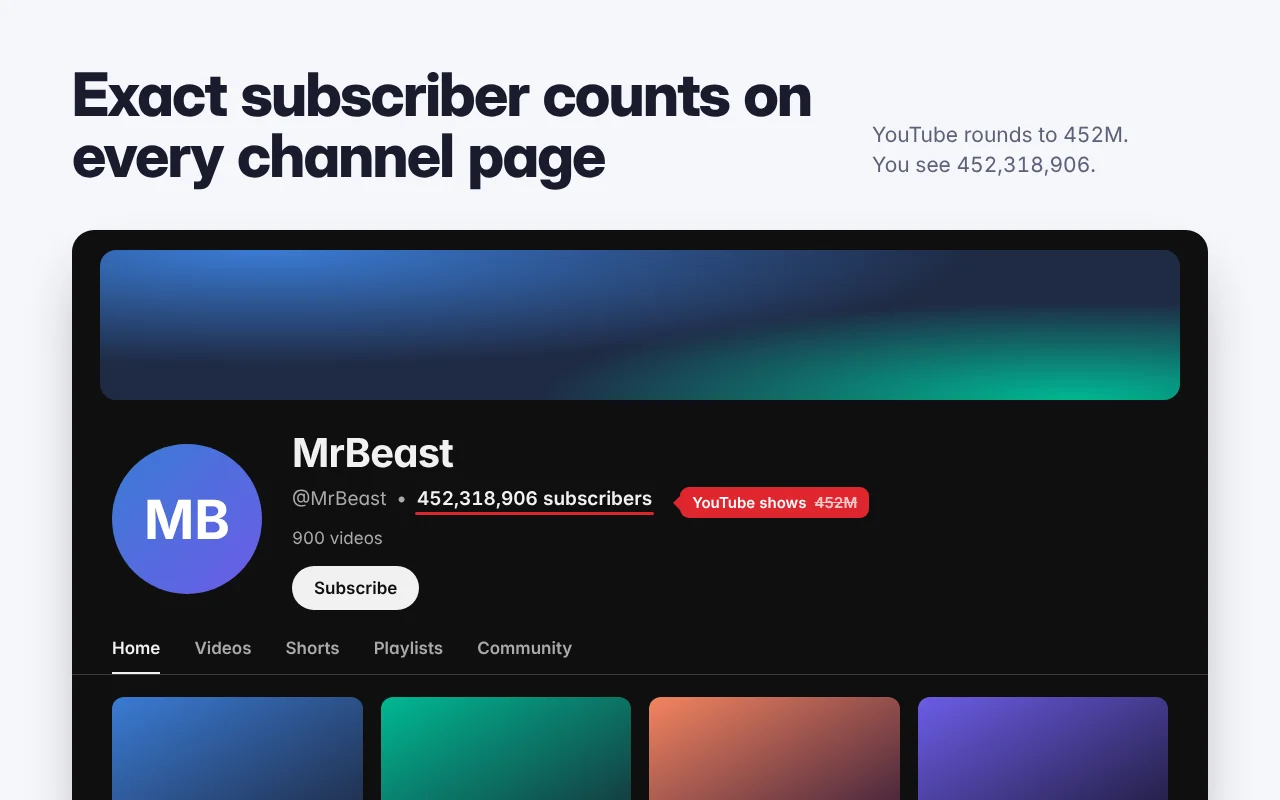
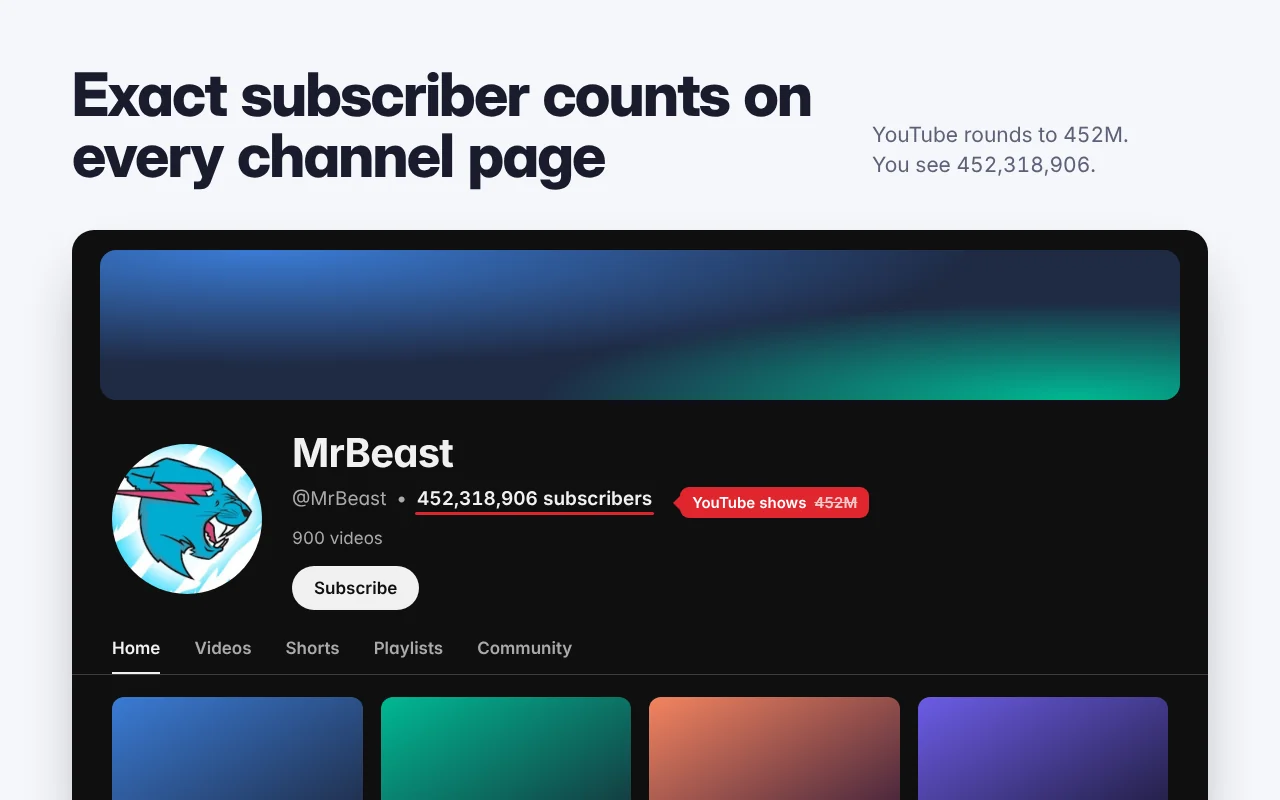
Store images with real channel pictures; seven screenshots
- Real profile pictures for MrBeast, PewDiePie, TheFatRat and Straight From
  MG, cropped from the project's earlier YouTube screenshots.
- Search screenshot shows MrBeast, PewDiePie and TheFatRat; new race-mode and
  your-channel (NextCounts real Studio count) screenshots; SFMG uses its Studio
  count consistently; privacy shot names both sources.
- render-assets clears old screenshots before rendering (keeps the Safari
  icon set's Contents.json).
- Website screenshot tabs and store listings point at the new set; Chrome
  and Opera use the first five.
- Feature-test fixtures use the same channels and pictures.

Changed region(s): [[0.0625, 0.5312, 0.2188, 0.75]]

diff --git a/store/templates/scenes.html b/store/templates/scenes.html
@@ -29,7 +29,7 @@
   .shot header { display: flex; justify-content: space-between; align-items: flex-end; gap: 40px; }
   .shot h1 { font-size: 60px; max-width: 760px; }
   .shot header p { color: var(--slate); font-size: 21px; line-height: 1.45; max-width: 360px; padding-bottom: 6px; text-wrap: balance; }
-  .shot > .yt { align-self: start; }
+  .shot > .yt, .shot > .race-card { align-self: start; }
   .shot > .ba, .shot > .center { align-self: center; }
 
   /* ---------- YouTube-like dark UI ---------- */
@@ -121,6 +121,28 @@
   .facts span { display: flex; align-items: center; gap: 12px; }
   .facts span::before { content: ""; width: 12px; height: 12px; border-radius: 50%; background: var(--red); }
 
+
+  /* race */
+  .race-card { background: #fff; border: 2px solid var(--mist); border-radius: 22px; padding: 56px 56px 44px; box-shadow: 0 30px 60px -28px rgba(26, 28, 46, .35); }
+  .race-sides { display: grid; grid-template-columns: 1fr 1fr; gap: 40px; min-width: 0; }
+  .race-side .who { display: flex; align-items: center; gap: 16px; font-size: 30px; font-weight: 700; letter-spacing: -0.02em; }
+  .race-side .who .avatar { width: 68px; height: 68px; font-size: 24px; }
+  .race-side .n { font-family: "Inter Display", "Inter"; font-weight: 800; font-size: 80px; letter-spacing: -0.045em; line-height: 1; margin-top: 26px; }
+  .race-side small { display: block; color: var(--slate); font-size: 19px; margin-top: 10px; }
+  .race-gap { margin-top: 40px; padding-top: 28px; border-top: 2px solid var(--mist); font-size: 24px; color: var(--slate); }
+  .race-gap strong { color: var(--red); }
+  .race-bar { display: flex; gap: 12px; align-items: center; margin-top: 30px; color: var(--slate); font-size: 18px; }
+  .race-bar .pill { margin-left: auto; border: 2px solid var(--mist); border-radius: 999px; padding: 8px 16px; font-weight: 700; color: var(--ink); }
+  .race-bar .pill.red { margin-left: 0; background: var(--red); border-color: var(--red); color: #fff; }
+
+  /* your channel */
+  .mine .chan { padding-bottom: 14px; }
+  .verified { display: inline-flex; align-items: center; gap: 6px; margin-left: 14px; background: #1F9D6B; color: #fff; font-size: 14px; font-weight: 700; padding: 5px 11px; border-radius: 999px; }
+  .ms { margin: 0 28px 24px; background: #272727; border-radius: 16px; padding: 26px 30px; display: flex; align-items: center; gap: 44px; font-size: 18px; color: var(--yt-muted); }
+  .ms b { display: block; color: var(--yt-text); font-size: 21px; font-weight: 600; }
+  .ms strong { display: block; color: var(--yt-text); font-size: 32px; font-weight: 800; letter-spacing: -0.02em; }
+  .ms .chip { margin-left: auto; background: #3F3F3F; color: var(--yt-text); border-radius: 999px; padding: 10px 18px; font-weight: 600; white-space: nowrap; }
+
   /* ---------- promo tiles / social card ---------- */
   .promo { display: flex; flex-direction: column; justify-content: center; padding: 0 var(--pad); background: var(--paper); }
   .promo .counter { font-family: "Inter Display", "Inter"; font-weight: 800; letter-spacing: -0.04em; line-height: 1;
@@ -173,8 +195,8 @@
     <div class="watch">
       <h3>Straight From MG Hitting 100,000 Views</h3>
       <div class="owner">
-        <img class="avatar" src="avatars/sfmg.png" alt="">
-        <div><b>Straight From MG</b><span class="count exact">34,010 subscribers</span><span class="was">YouTube shows <s>34K</s></span></div>
+        <img class="avatar" src="avatars/sfmg.jpg" alt="">
+        <div><b>Straight From MG</b><span class="count exact">34,012 subscribers</span><span class="was">YouTube shows <s>34K</s></span></div>
         <span class="btn-sub" style="margin-left: 24px;">Subscribe</span>
         <span class="btn-sub btn-ghost" style="margin-left: auto;">Share</span>
       </div>
@@ -189,22 +211,64 @@
     <p>Compare channels at a glance instead of guessing between rounded numbers.</p>
   </header>
   <div class="yt search">
-    <div class="searchbar muted">mrbeast</div>
+    <div class="searchbar muted">biggest youtubers</div>
     <div class="result">
       <div class="avatar" style="background: linear-gradient(135deg, #3A7BD5, #6C5CE7);" data-img="avatars/mrbeast.jpg">MB</div>
       <div class="grow"><h4>MrBeast</h4><div class="meta muted">@MrBeast <span>•</span> <span class="exact">452,318,906 subscribers</span></div><div class="muted" style="font-size:16px">Official channel</div></div>
       <span class="btn-sub">Subscribe</span>
     </div>
     <div class="result">
-      <div class="avatar" style="background: linear-gradient(135deg, #00B894, #3A7BD5);" data-img="avatars/mrbeast-gaming.jpg">MG</div>
-      <div class="grow"><h4>MrBeast Gaming</h4><div class="meta muted">@MrBeastGaming <span>•</span> <span class="exact">51,872,340 subscribers</span></div><div class="muted" style="font-size:16px">Gaming channel</div></div>
+      <div class="avatar" style="background: #555;" data-img="avatars/pewdiepie.jpg">PD</div>
+      <div class="grow"><h4>PewDiePie</h4><div class="meta muted">@PewDiePie <span>•</span> <span class="exact">110,431,882 subscribers</span></div><div class="muted" style="font-size:16px">I make videos.</div></div>
       <span class="btn-sub">Subscribe</span>
     </div>
     <div class="result">
-      <div class="avatar" style="background: linear-gradient(135deg, #F7B267, #E0262F);" data-img="avatars/beast-philanthropy.jpg">BP</div>
-      <div class="grow"><h4>Beast Philanthropy</h4><div class="meta muted">@BeastPhilanthropy <span>•</span> <span class="exact">28,406,915 subscribers</span></div><div class="muted" style="font-size:16px">Charity channel</div></div>
+      <div class="avatar" style="background: #555;" data-img="avatars/thefatrat.jpg">TF</div>
+      <div class="grow"><h4>TheFatRat</h4><div class="meta muted">@TheFatRat <span>•</span> <span class="exact">6,912,407 subscribers</span></div><div class="muted" style="font-size:16px">Music producer.</div></div>
       <span class="btn-sub">Subscribe</span>
     </div>
+  </div>
+</section>
+
+<!-- 3b. race mode -->
+<section class="scene shot" id="race">
+  <header>
+    <h1>Race any two channels, live</h1>
+    <p>A full-screen counter that refreshes every few seconds. Save it as an image to share.</p>
+  </header>
+  <div class="race-card">
+    <div class="race-sides">
+      <div class="race-side"><div class="who"><div class="avatar" style="background:#3A7BD5" data-img="avatars/mrbeast.jpg">MB</div>MrBeast</div><div class="n">452,318,906</div><small>subscribers, estimated</small></div>
+      <div class="race-side"><div class="who"><div class="avatar" style="background:#555" data-img="avatars/pewdiepie.jpg">PD</div>PewDiePie</div><div class="n">110,431,882</div><small>subscribers, estimated</small></div>
+    </div>
+    <div class="race-gap">MrBeast leads by <strong>341,887,024</strong> subscribers</div>
+    <div class="race-bar">Updated just now, refreshes every 5 seconds.<span class="pill">Save image</span><span class="pill red">Full screen</span></div>
+  </div>
+</section>
+
+<!-- 3c. your channel -->
+<section class="scene shot" id="your-channel">
+  <header>
+    <h1>Your next milestone, counted exactly</h1>
+    <p>Creators in NextCounts' Unabbreviated Project show their real Studio count to everyone.</p>
+  </header>
+  <div class="yt mine">
+    <div class="chan">
+      <img class="avatar" src="avatars/sfmg.jpg" alt="" style="width:130px;height:130px">
+      <div>
+        <h2>Straight From MG</h2>
+        <div class="meta muted">@sfmg <span>•</span> <span class="exact">34,012 subscribers</span><span class="verified">Real Studio count</span></div>
+      </div>
+    </div>
+    <div class="ms">
+      <div><b>Your channel</b>Next milestone: 35,000</div>
+      <div><strong>988</strong>to go</div>
+      <div><strong>+24</strong>per day, recently</div>
+      <div><strong>Dec 21, 2026</strong>projected date</div>
+      <span class="chip">Open live counter</span>
+    </div>
+    <div class="tabs"><span>Home</span><span>Videos</span><span>Shorts</span><span>Live</span><span>Community</span></div>
+    <div class="thumbs"><i style="--a:#1E88C8;--b:#16323A"></i><i style="--a:#7B2D5B;--b:#2A1B3D"></i><i style="--a:#F4845F;--b:#3B1F3A"></i><i style="--a:#00B894;--b:#16323A"></i></div>
   </div>
 </section>
 
@@ -238,7 +302,7 @@
     <div class="flow">
       <div class="node"><b>You open a channel</b><p>The extension reads the channel's public ID, like <code>UCX6…</code></p></div>
       <div class="arrow"></div>
-      <div class="node"><b>One lookup</b><p>Only that ID is sent to <code>mixerno.space</code> to get the current estimate.</p></div>
+      <div class="node"><b>One lookup</b><p>Only that ID is sent: to <code>nextcounts.com</code> for creators sharing their real count, otherwise to <code>mixerno.space</code>.</p></div>
       <div class="arrow"></div>
       <div class="node red"><b>Exact count</b><div class="num">452,318,906</div><p>Shown where YouTube's rounded number was.</p></div>
     </div>

diff --git a/index.html b/index.html
@@ -241,9 +241,11 @@
         </div>
         <div class="tabs" role="tablist" aria-label="Screenshots">
           <button role="tab" aria-selected="true" aria-controls="viewer" data-shot="screenshot-1-channel" data-alt="MrBeast's channel page showing 452,318,906 subscribers where YouTube shows 452M">Channel pages</button>
-          <button role="tab" aria-selected="false" aria-controls="viewer" tabindex="-1" data-shot="screenshot-2-watch" data-alt="A Straight From MG video showing 34,010 subscribers under the channel name">Watch pages</button>
-          <button role="tab" aria-selected="false" aria-controls="viewer" tabindex="-1" data-shot="screenshot-3-search" data-alt="Search results for mrbeast with exact counts for three channels">Search results</button>
-          <button role="tab" aria-selected="false" aria-controls="viewer" tabindex="-1" data-shot="screenshot-4-before-after" data-alt="Before: 452M. After: 452,318,906">Before and after</button>
+          <button role="tab" aria-selected="false" aria-controls="viewer" tabindex="-1" data-shot="screenshot-6-watch" data-alt="A Straight From MG video showing 34,012 subscribers under the channel name">Watch pages</button>
+          <button role="tab" aria-selected="false" aria-controls="viewer" tabindex="-1" data-shot="screenshot-2-search" data-alt="Search results with exact counts for MrBeast, PewDiePie and TheFatRat">Search results</button>
+          <button role="tab" aria-selected="false" aria-controls="viewer" tabindex="-1" data-shot="screenshot-3-race" data-alt="A live race between MrBeast and PewDiePie showing the gap between them">Live race</button>
+          <button role="tab" aria-selected="false" aria-controls="viewer" tabindex="-1" data-shot="screenshot-4-your-channel" data-alt="Straight From MG's channel with its real Studio count and next milestone">Your channel</button>
+          <button role="tab" aria-selected="false" aria-controls="viewer" tabindex="-1" data-shot="screenshot-5-before-after" data-alt="Before: 452M. After: 452,318,906">Before and after</button>
         </div>
         <div class="viewer" id="viewer" role="tabpanel">
           <img id="shot" src="./assets/screens/screenshot-1-channel.webp" width="1280" height="800" alt="MrBeast's channel page showing 452,318,906 subscribers where YouTube shows 452M">

diff --git a/store/listings/chrome-web-store.md b/store/listings/chrome-web-store.md
@@ -65,15 +65,17 @@ Social & Communication
 | Store icon (128x128) | `store/assets/icon-128.png` |
 | Small promo tile (440x280) | `store/assets/promo-small-440x280.png` |
 | Marquee promo tile (1400x560) | `store/assets/promo-marquee-1400x560.png` |
-| Screenshots (1280x800) | `store/assets/screenshot-*.png` |
+| Screenshots (1280x800, Chrome takes 5: use 1 to 5) | `store/assets/screenshot-*.png` |
 
 Screenshots, in order:
 
 1. `store/assets/screenshot-1-channel.png`: Exact subscriber counts on every channel page
-2. `store/assets/screenshot-2-watch.png`: The full number under every video
-3. `store/assets/screenshot-3-search.png`: Exact counts in search results
-4. `store/assets/screenshot-4-before-after.png`: 452M becomes 452,318,906
-5. `store/assets/screenshot-5-privacy.png`: Lightweight, open source, no tracking
+2. `store/assets/screenshot-2-search.png`: Exact counts in search results, sortable by subscribers
+3. `store/assets/screenshot-3-race.png`: Race any two channels, live
+4. `store/assets/screenshot-4-your-channel.png`: Your next milestone, with real Studio counts via NextCounts
+5. `store/assets/screenshot-5-before-after.png`: 452M becomes 452,318,906
+6. `store/assets/screenshot-6-watch.png`: The full number under every video
+7. `store/assets/screenshot-7-privacy.png`: Lightweight, open source, no tracking
 
 ## Privacy practices tab
 

diff --git a/store/listings/opera-add-ons.md b/store/listings/opera-add-ons.md
@@ -65,15 +65,17 @@ Social
 | Field | File |
 | --- | --- |
 | Icon (128x128) | `store/assets/icon-128.png` |
-| Screenshots (1280x800) | `store/assets/screenshot-*.png` |
+| Screenshots (1280x800, use 1 to 5) | `store/assets/screenshot-*.png` |
 
 Screenshots, in order:
 
 1. `store/assets/screenshot-1-channel.png`: Exact subscriber counts on every channel page
-2. `store/assets/screenshot-2-watch.png`: The full number under every video
-3. `store/assets/screenshot-3-search.png`: Exact counts in search results
-4. `store/assets/screenshot-4-before-after.png`: 452M becomes 452,318,906
-5. `store/assets/screenshot-5-privacy.png`: Lightweight, open source, no tracking
+2. `store/assets/screenshot-2-search.png`: Exact counts in search results, sortable by subscribers
+3. `store/assets/screenshot-3-race.png`: Race any two channels, live
+4. `store/assets/screenshot-4-your-channel.png`: Your next milestone, with real Studio counts via NextCounts
+5. `store/assets/screenshot-5-before-after.png`: 452M becomes 452,318,906
+6. `store/assets/screenshot-6-watch.png`: The full number under every video
+7. `store/assets/screenshot-7-privacy.png`: Lightweight, open source, no tracking
 
 ## Links
 

diff --git a/store/listings/edge-add-ons.md b/store/listings/edge-add-ons.md
@@ -76,10 +76,12 @@ youtube, subscribers, subscriber count, exact, live count, channel, creator
 Screenshots, in order:
 
 1. `store/assets/screenshot-1-channel.png`: Exact subscriber counts on every channel page
-2. `store/assets/screenshot-2-watch.png`: The full number under every video
-3. `store/assets/screenshot-3-search.png`: Exact counts in search results
-4. `store/assets/screenshot-4-before-after.png`: 452M becomes 452,318,906
-5. `store/assets/screenshot-5-privacy.png`: Lightweight, open source, no tracking
+2. `store/assets/screenshot-2-search.png`: Exact counts in search results, sortable by subscribers
+3. `store/assets/screenshot-3-race.png`: Race any two channels, live
+4. `store/assets/screenshot-4-your-channel.png`: Your next milestone, with real Studio counts via NextCounts
+5. `store/assets/screenshot-5-before-after.png`: 452M becomes 452,318,906
+6. `store/assets/screenshot-6-watch.png`: The full number under every video
+7. `store/assets/screenshot-7-privacy.png`: Lightweight, open source, no tracking
 
 ## Notes for certification
 

diff --git a/store/listings/safari-app-store.md b/store/listings/safari-app-store.md
@@ -82,10 +82,12 @@ Primary: Social Networking. Secondary: Utilities.
 Screenshots, in order:
 
 1. `store/assets/screenshot-1-channel.png`: Exact subscriber counts on every channel page
-2. `store/assets/screenshot-2-watch.png`: The full number under every video
-3. `store/assets/screenshot-3-search.png`: Exact counts in search results
-4. `store/assets/screenshot-4-before-after.png`: 452M becomes 452,318,906
-5. `store/assets/screenshot-5-privacy.png`: Lightweight, open source, no tracking
+2. `store/assets/screenshot-2-search.png`: Exact counts in search results, sortable by subscribers
+3. `store/assets/screenshot-3-race.png`: Race any two channels, live
+4. `store/assets/screenshot-4-your-channel.png`: Your next milestone, with real Studio counts via NextCounts
+5. `store/assets/screenshot-5-before-after.png`: 452M becomes 452,318,906
+6. `store/assets/screenshot-6-watch.png`: The full number under every video
+7. `store/assets/screenshot-7-privacy.png`: Lightweight, open source, no tracking
 
 ## App Privacy
 

diff --git a/store/listings/firefox-amo.md b/store/listings/firefox-amo.md
@@ -70,10 +70,12 @@ social-communication
 Screenshots, in order:
 
 1. `store/assets/screenshot-1-channel.png`: Exact subscriber counts on every channel page
-2. `store/assets/screenshot-2-watch.png`: The full number under every video
-3. `store/assets/screenshot-3-search.png`: Exact counts in search results
-4. `store/assets/screenshot-4-before-after.png`: 452M becomes 452,318,906
-5. `store/assets/screenshot-5-privacy.png`: Lightweight, open source, no tracking
+2. `store/assets/screenshot-2-search.png`: Exact counts in search results, sortable by subscribers
+3. `store/assets/screenshot-3-race.png`: Race any two channels, live
+4. `store/assets/screenshot-4-your-channel.png`: Your next milestone, with real Studio counts via NextCounts
+5. `store/assets/screenshot-5-before-after.png`: 452M becomes 452,318,906
+6. `store/assets/screenshot-6-watch.png`: The full number under every video
+7. `store/assets/screenshot-7-privacy.png`: Lightweight, open source, no tracking
 
 ## Notes to reviewer
 
